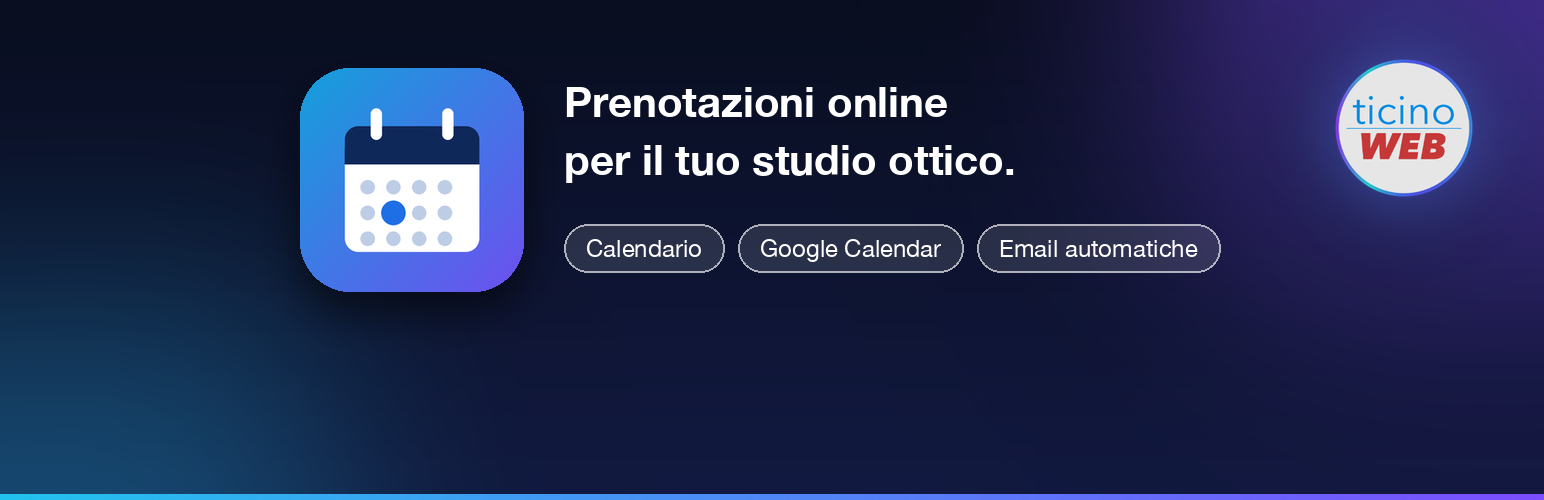
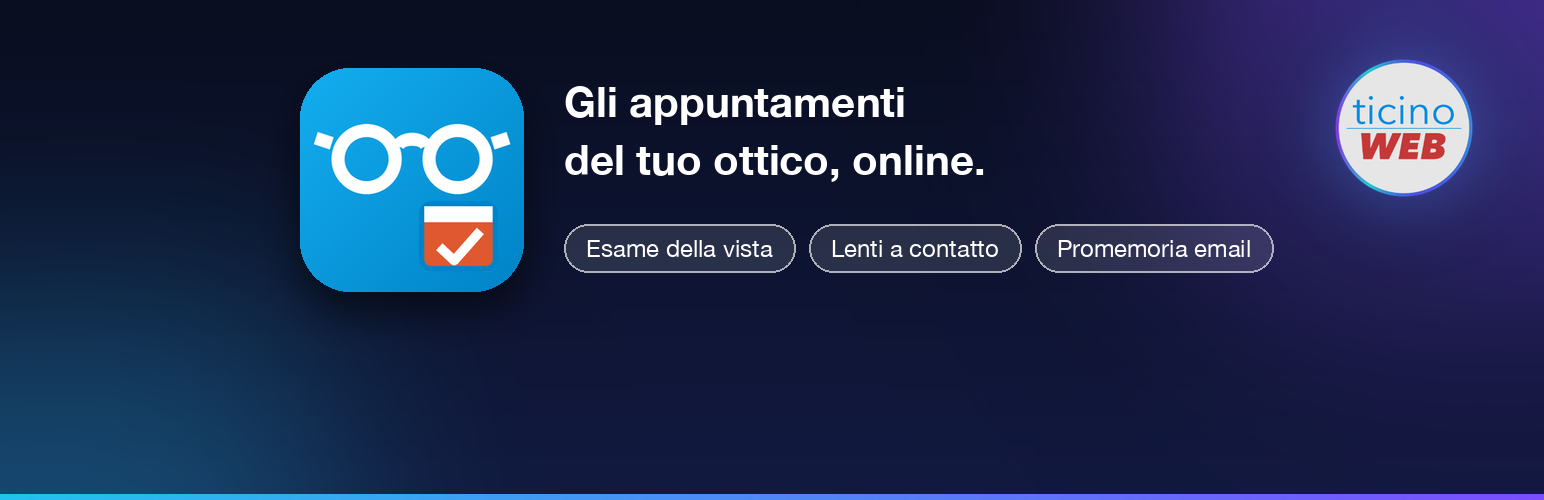
release: sistema-appuntamenti-ottici 1.0.20

diff --git a/incoming/sistema-appuntamenti-ottici-1.0.20.md b/incoming/sistema-appuntamenti-ottici-1.0.20.md
@@ -1,0 +1,3 @@
+### Changed
+- Nuova icona (occhiali con un piccolo calendario) e nuovo banner dedicati agli studi ottici: il plugin è per gli ottici e deve riconoscersi a colpo d'occhio in Aggiornamenti, nei Dettagli versione e nel negozio.
+
